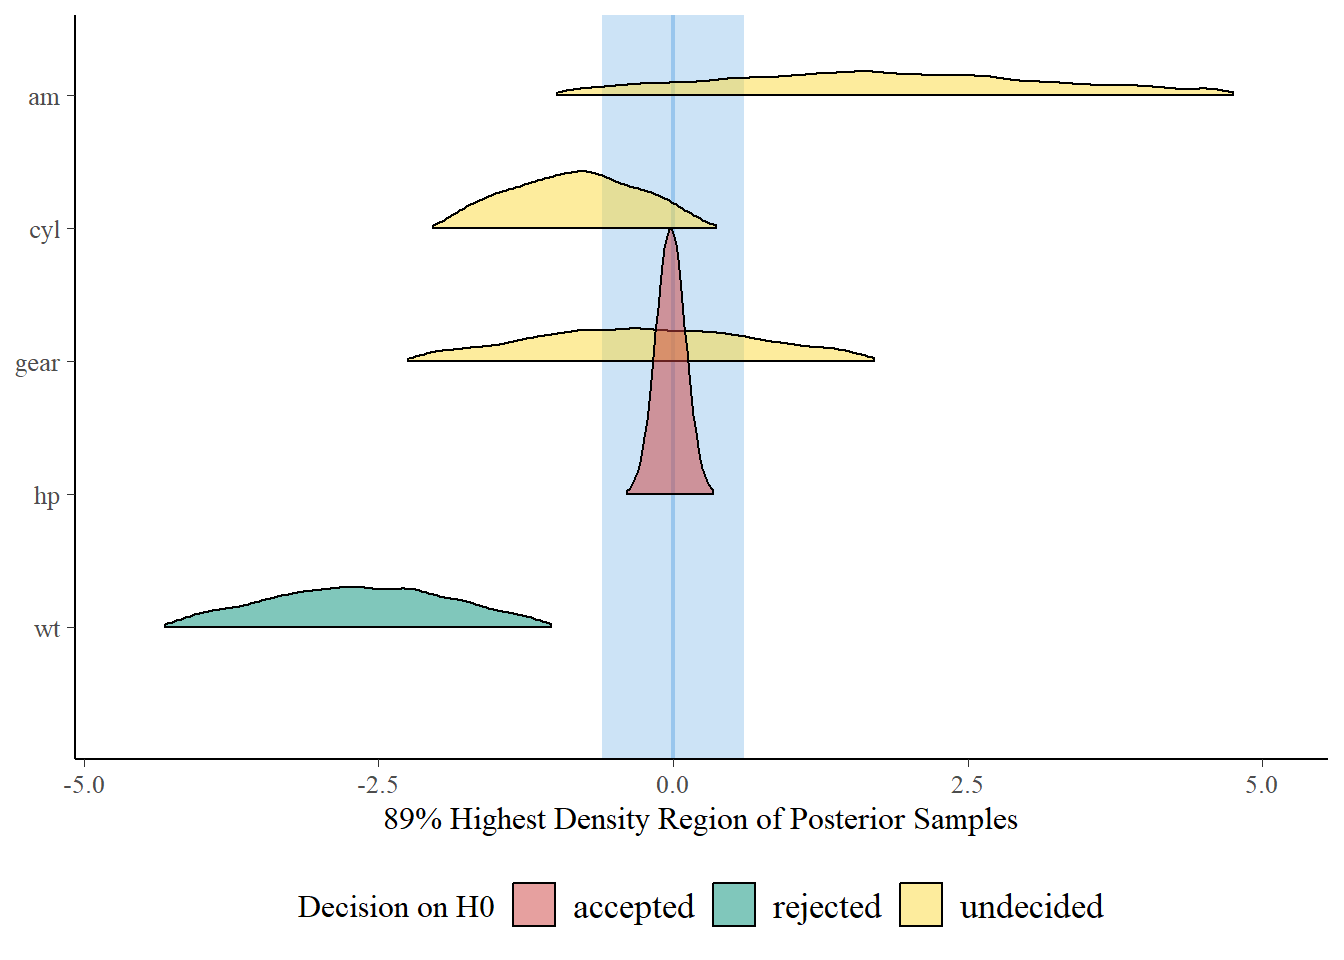
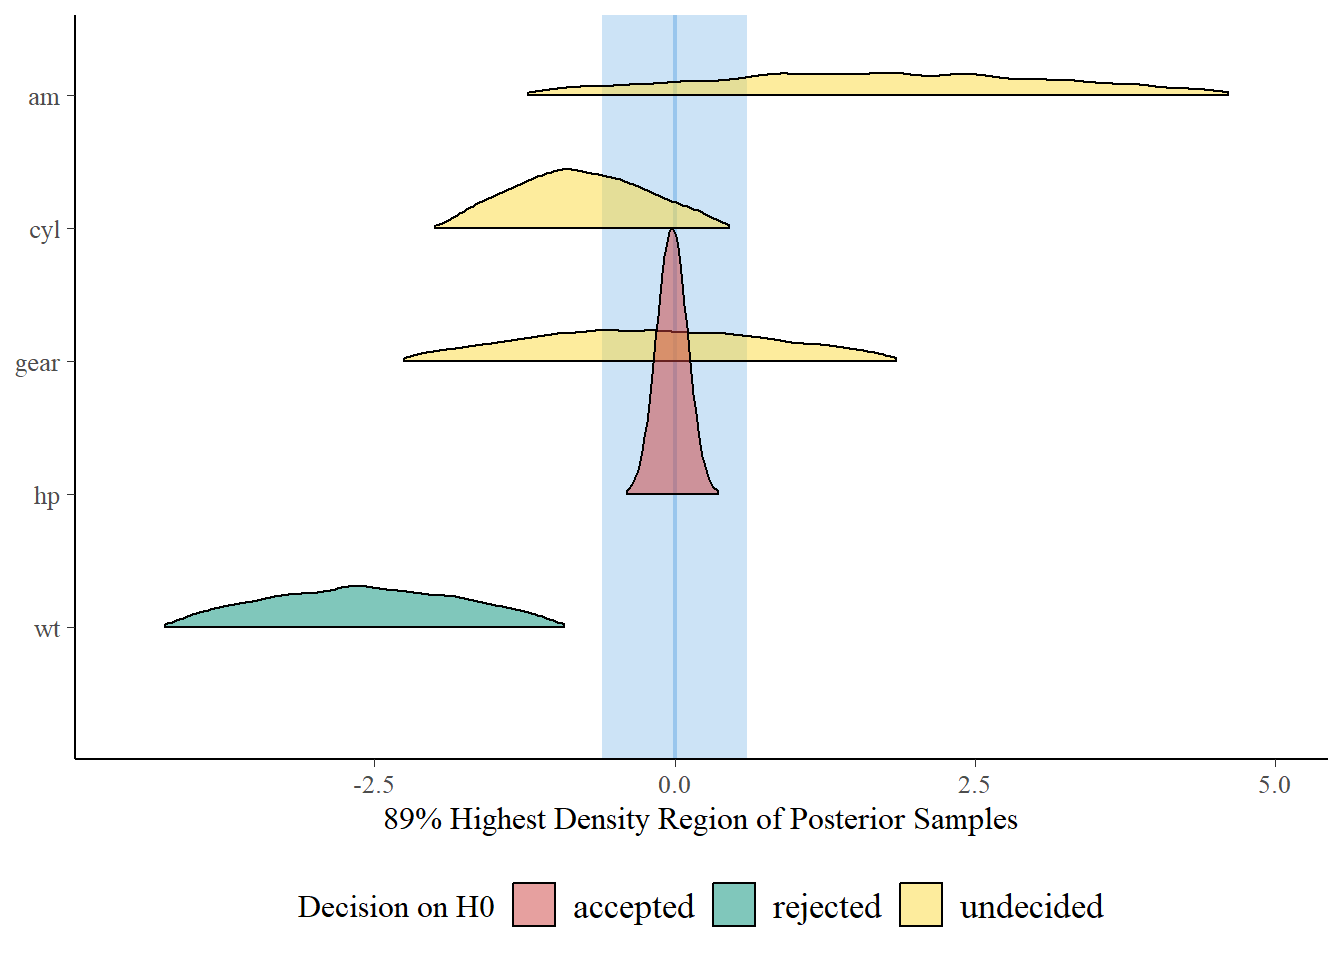
update site

diff --git a/docs/posts/report_correlation.knit/index.html b/docs/posts/report_correlation.knit/index.html
@@ -27,7 +27,7 @@
 <meta property="og:title" content="Formatted correlation output with effect sizes" />
 <meta property="og:description" content="This post shows how to create formatted reports for correlation tests" />
 <meta property="og:type" content="article" />
-<meta property="og:url" content="/blog/posts/report_correlation.knit/" />
+<meta property="og:url" content="https://easystats.github.io/blog/posts/report_correlation.knit/" />
 <meta property="article:published_time" content="2019-03-25T00:00:00&#43;00:00"/>
 <meta property="article:modified_time" content="2019-03-25T00:00:00&#43;00:00"/><meta property="og:site_name" content="easystats" />
 
@@ -70,14 +70,14 @@
   <div class="container ">
     <div class="sidebar-about">
       <span class="site__title">
-        <a href="/blog/">easystats</a>
+        <a href="https://easystats.github.io/blog/">easystats</a>
       </span>
       
         
         
         
         <div class="author-image">
-          <img src="/blog/img/logo.png" alt="Author Image" class="img--circle img--headshot element--center">
+          <img src="https://easystats.github.io/blog/img/logo.png" alt="Author Image" class="img--circle img--headshot element--center">
         </div>
         
       

diff --git a/docs/page/2/index.html b/docs/page/2/index.html
@@ -165,14 +165,14 @@
       
       <div class="post-list__item">
         <span class="item__title--big">
-          <a href="/blog/posts/report_anova/" >The end of errors in ANOVA reporting</a>
+          <a href="/blog/posts/report_correlation/" >Formatted correlation output with effect sizes</a>
         </span>
         <span class="item__date">
-          Mar 28, 2019
+          Mar 25, 2019
         </span>
         <span >
         
-        This post shows how to create formatted reports for ANOVAs.
+        This post shows how to create formatted reports for correlation tests
         
         </span>
         
@@ -184,7 +184,7 @@
       
       <div class="post-list__item">
         <span class="item__title--big">
-          <a href="/blog/posts/report_correlation/" >Formatted correlation output with effect sizes</a>
+          <a href="/blog/posts/report_correlation.knit/" >Formatted correlation output with effect sizes</a>
         </span>
         <span class="item__date">
           Mar 25, 2019

diff --git a/docs/posts/bayestestr_presentation/index.html b/docs/posts/bayestestr_presentation/index.html
@@ -252,11 +252,11 @@ equivalence_test(model)</code></pre>
 ##   ROPE: [-0.60 0.60]
 ## 
 ##    Parameter        H0 inside ROPE       89% HDI
-##  (Intercept)  rejected      0.00 % [27.54 46.96]
-##           wt  rejected      0.00 % [-4.22 -1.12]
-##          cyl undecided     33.50 % [-1.93  0.23]
-##         gear undecided     43.13 % [-2.17  1.65]
-##           am undecided     18.96 % [-0.93  4.70]
+##  (Intercept)  rejected      0.00 % [27.33 47.61]
+##           wt  rejected      0.00 % [-4.14 -1.01]
+##          cyl undecided     36.84 % [-1.87  0.34]
+##         gear undecided     40.75 % [-2.18  1.78]
+##           am undecided     18.17 % [-1.18  4.58]
 ##           hp  accepted    100.00 % [-0.05  0.00]</code></pre>
 <p>Results can also be plotted, to get a better impression of the posterior distributions and the ROPE-coverage.</p>
 <pre class="r"><code># Do the test and plot results

diff --git a/content/posts/bayestestR_presentation.html b/content/posts/bayestestR_presentation.html
@@ -34,11 +34,11 @@ equivalence_test(model)</code></pre>
 ##   ROPE: [-0.60 0.60]
 ## 
 ##    Parameter        H0 inside ROPE       89% HDI
-##  (Intercept)  rejected      0.00 % [27.54 46.96]
-##           wt  rejected      0.00 % [-4.22 -1.12]
-##          cyl undecided     33.50 % [-1.93  0.23]
-##         gear undecided     43.13 % [-2.17  1.65]
-##           am undecided     18.96 % [-0.93  4.70]
+##  (Intercept)  rejected      0.00 % [27.33 47.61]
+##           wt  rejected      0.00 % [-4.14 -1.01]
+##          cyl undecided     36.84 % [-1.87  0.34]
+##         gear undecided     40.75 % [-2.18  1.78]
+##           am undecided     18.17 % [-1.18  4.58]
 ##           hp  accepted    100.00 % [-0.05  0.00]</code></pre>
 <p>Results can also be plotted, to get a better impression of the posterior distributions and the ROPE-coverage.</p>
 <pre class="r"><code># Do the test and plot results

diff --git a/docs/posts/performance_presentation/index.html b/docs/posts/performance_presentation/index.html
@@ -278,9 +278,9 @@ model &lt;- stan_glmer(Sepal.Width ~ Petal.Length + (1|Species), data = iris)
 # Compute performance indices
 model_performance(model)</code></pre>
 <pre><code>&gt;   ELPD ELPD_SE LOOIC LOOIC_SE WAIC   R2 R2_SE R2_marginal R2_marginal_SE
-&gt; 1  -43      10    87       20   87 0.47 0.044        0.27          0.045
+&gt; 1  -43      10    87       20   87 0.47 0.045        0.26          0.048
 &gt;   R2_LOO_adjusted RMSE
-&gt; 1            0.46 0.31</code></pre>
+&gt; 1            0.45 0.31</code></pre>
 <ul>
 <li><strong>Don’t forget to check out the</strong> <a href="https://easystats.github.io/performance/"><strong>documentation here</strong></a> <strong>for more!</strong></li>
 </ul>

diff --git a/content/posts/performance_presentation.html b/content/posts/performance_presentation.html
@@ -60,9 +60,9 @@ model &lt;- stan_glmer(Sepal.Width ~ Petal.Length + (1|Species), data = iris)
 # Compute performance indices
 model_performance(model)</code></pre>
 <pre><code>&gt;   ELPD ELPD_SE LOOIC LOOIC_SE WAIC   R2 R2_SE R2_marginal R2_marginal_SE
-&gt; 1  -43      10    87       20   87 0.47 0.044        0.27          0.045
+&gt; 1  -43      10    87       20   87 0.47 0.045        0.26          0.048
 &gt;   R2_LOO_adjusted RMSE
-&gt; 1            0.46 0.31</code></pre>
+&gt; 1            0.45 0.31</code></pre>
 <ul>
 <li><strong>Don’t forget to check out the</strong> <a href="https://easystats.github.io/performance/"><strong>documentation here</strong></a> <strong>for more!</strong></li>
 </ul>

diff --git a/docs/posts/bayestestr_emmeans/index.html b/docs/posts/bayestestr_emmeans/index.html
@@ -215,7 +215,6 @@ options(contrasts = c(&#39;contr.sum&#39;, &#39;contr." />
     
 
 
-<p><img src="https://raw.githubusercontent.com/easystats/bayestestR/master/man/figures/logo.png" width="200px" /></p>
 <div id="the-problem-with-null-effects" class="section level1">
 <h1>The Problem with Null Effects</h1>
 <p>Say you fit an ANOVA model, predicting the time it takes to solve a puzzle from its shape (round / square) and whether it was colored or black and white, and you found that one of the estimated effects, in this case the interaction, was not significant. Say even that it was as non-significant as can be, with <strong><em>p</em> = 1.00</strong>!</p>

diff --git a/docs/posts/bayestestr_emmeans.utf8/index.html b/docs/posts/bayestestr_emmeans.utf8/index.html
@@ -214,8 +214,6 @@ options(contrasts = c(&#39;contr.sum&#39;, &#39;contr." />
   <div class="post">
     
 
-<p><img src="https://raw.githubusercontent.com/easystats/bayestestR/master/man/figures/logo.png" width="200px" /></p>
-
 <h1 id="the-problem-with-null-effects">The Problem with Null Effects</h1>
 
 <p>Say you fit an ANOVA model, predicting the time it takes to solve a puzzle from its shape (round / square) and whether it was colored or black and white, and you found that one of the estimated effects, in this case the interaction, was not significant. Say even that it was as non-significant as can be, with *<strong>p* = 1.00</strong>!</p>

diff --git a/content/posts/bayestestR_emmeans.html b/content/posts/bayestestR_emmeans.html
@@ -8,7 +8,6 @@ tags: ["R", "easystats", "bayestestR"]
 
 
 
-<p><img src="https://raw.githubusercontent.com/easystats/bayestestR/master/man/figures/logo.png" width="200px" /></p>
 <div id="the-problem-with-null-effects" class="section level1">
 <h1>The Problem with Null Effects</h1>
 <p>Say you fit an ANOVA model, predicting the time it takes to solve a puzzle from its shape (round / square) and whether it was colored or black and white, and you found that one of the estimated effects, in this case the interaction, was not significant. Say even that it was as non-significant as can be, with <strong><em>p</em> = 1.00</strong>!</p>
